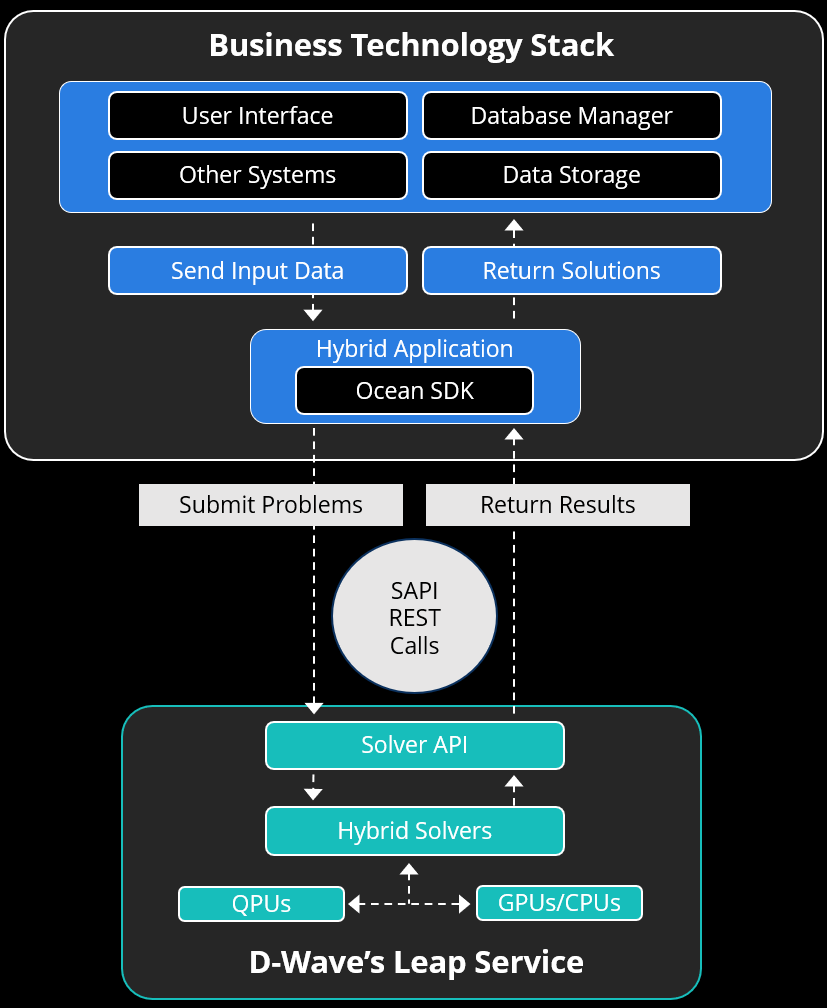
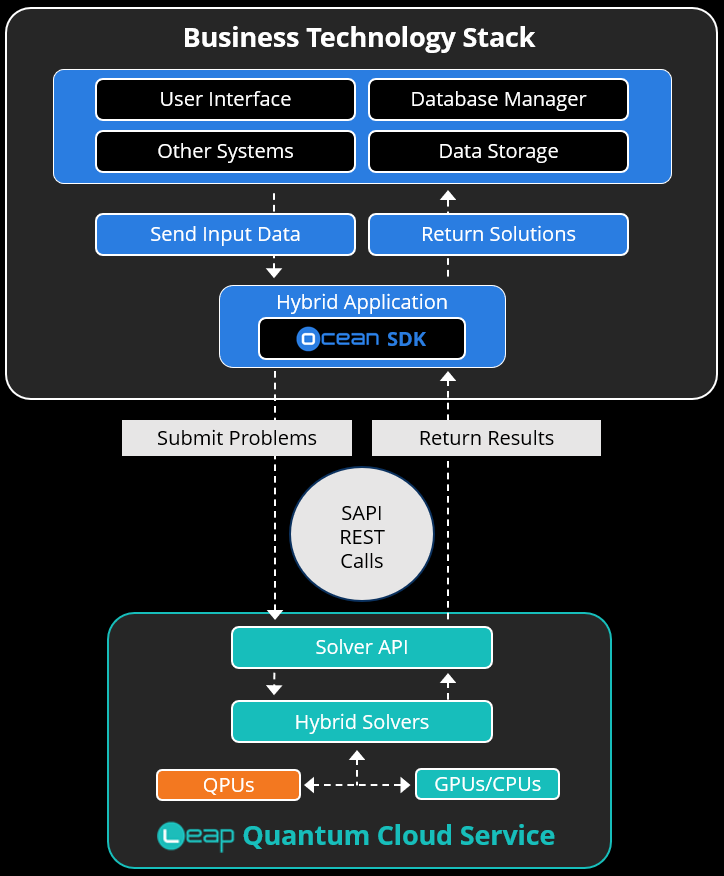
Improve diagram and remove now extraneous footnote; clarify concurrency limit as being for a Leap project

diff --git a/docs/industrial_optimization/productizing_apps.rst b/docs/industrial_optimization/productizing_apps.rst
@@ -41,9 +41,6 @@ business's technology stack.
     application postprocesses the results and returns solutions to the
     appropriate business systems.
 
-.. [#] QPU solvers are not shown in this figure, but the solver API is also
-    used to call them.
-
 Application Operation
 =====================
 
@@ -110,7 +107,8 @@ your production environment enables your application to perform and scale as
 needed by considering the following:
 
 *   Desired throughput (i.e., solved problems per second). Also take into
-    account concurrency limits to provision your workloads effectively.
+    account the your Leap project's concurrency limit (the default is 2) to
+    provision your workloads effectively.
 
 *   Internet connection latency and bandwidth.
 
